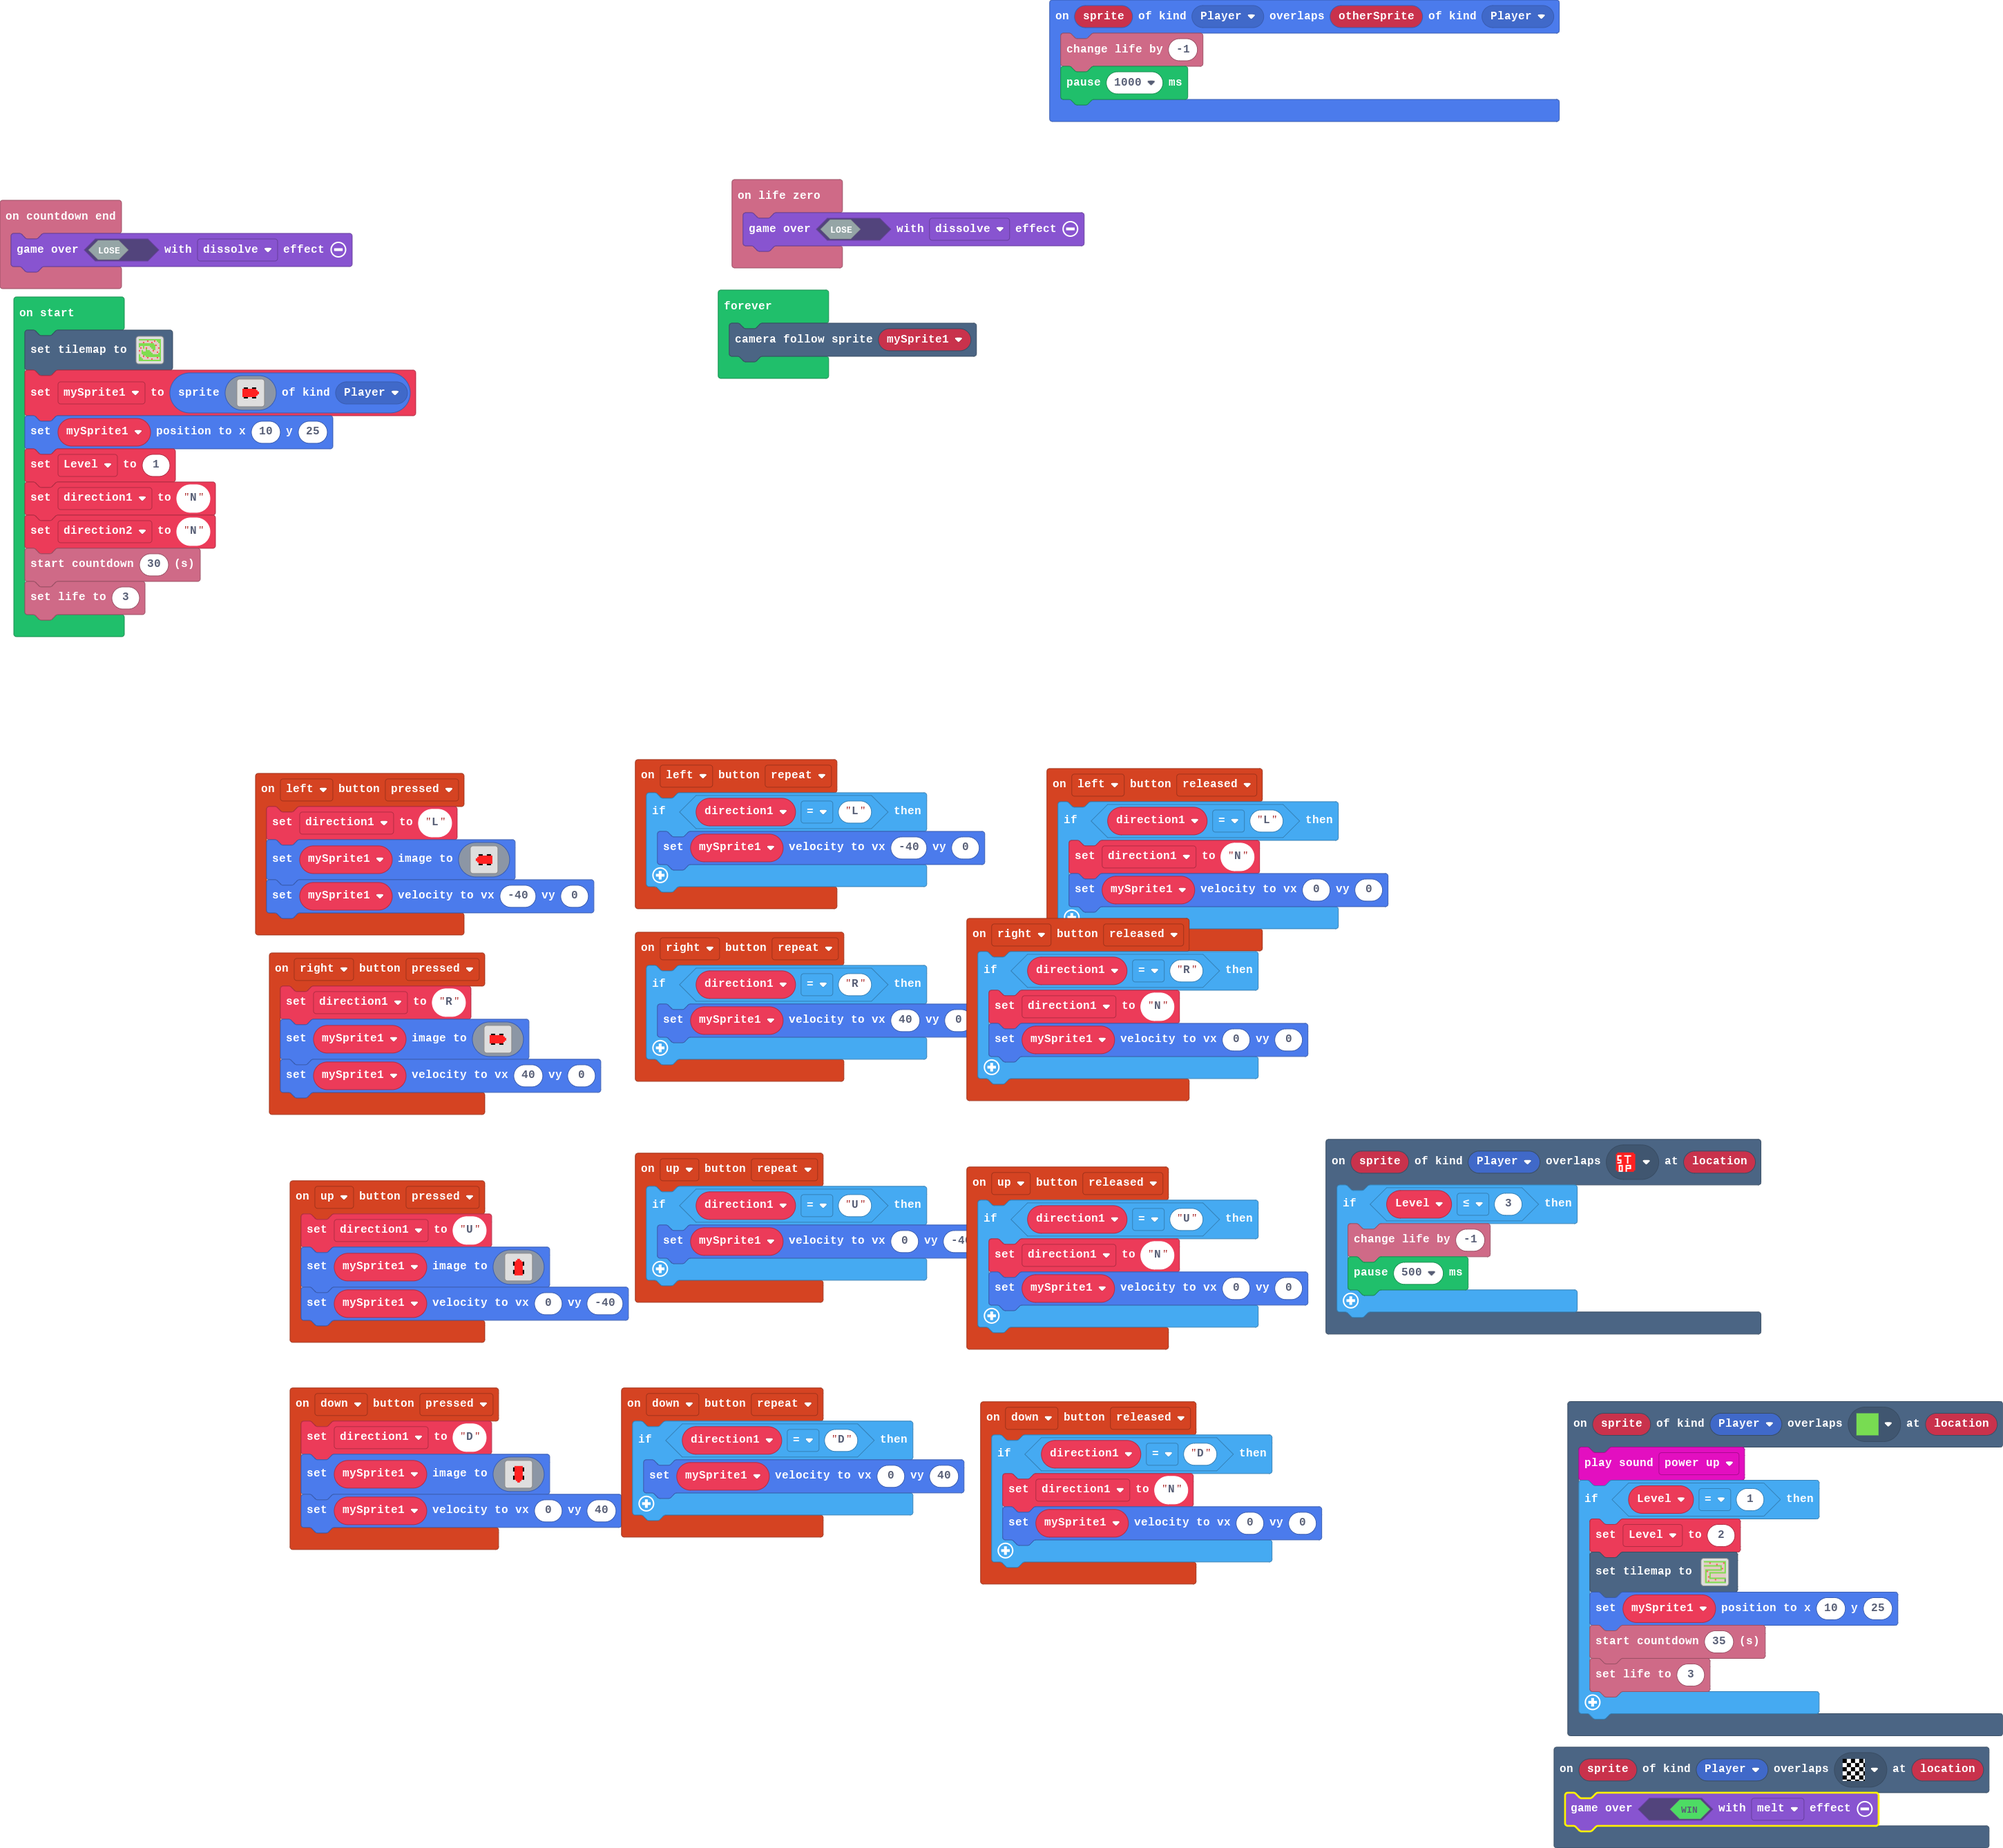
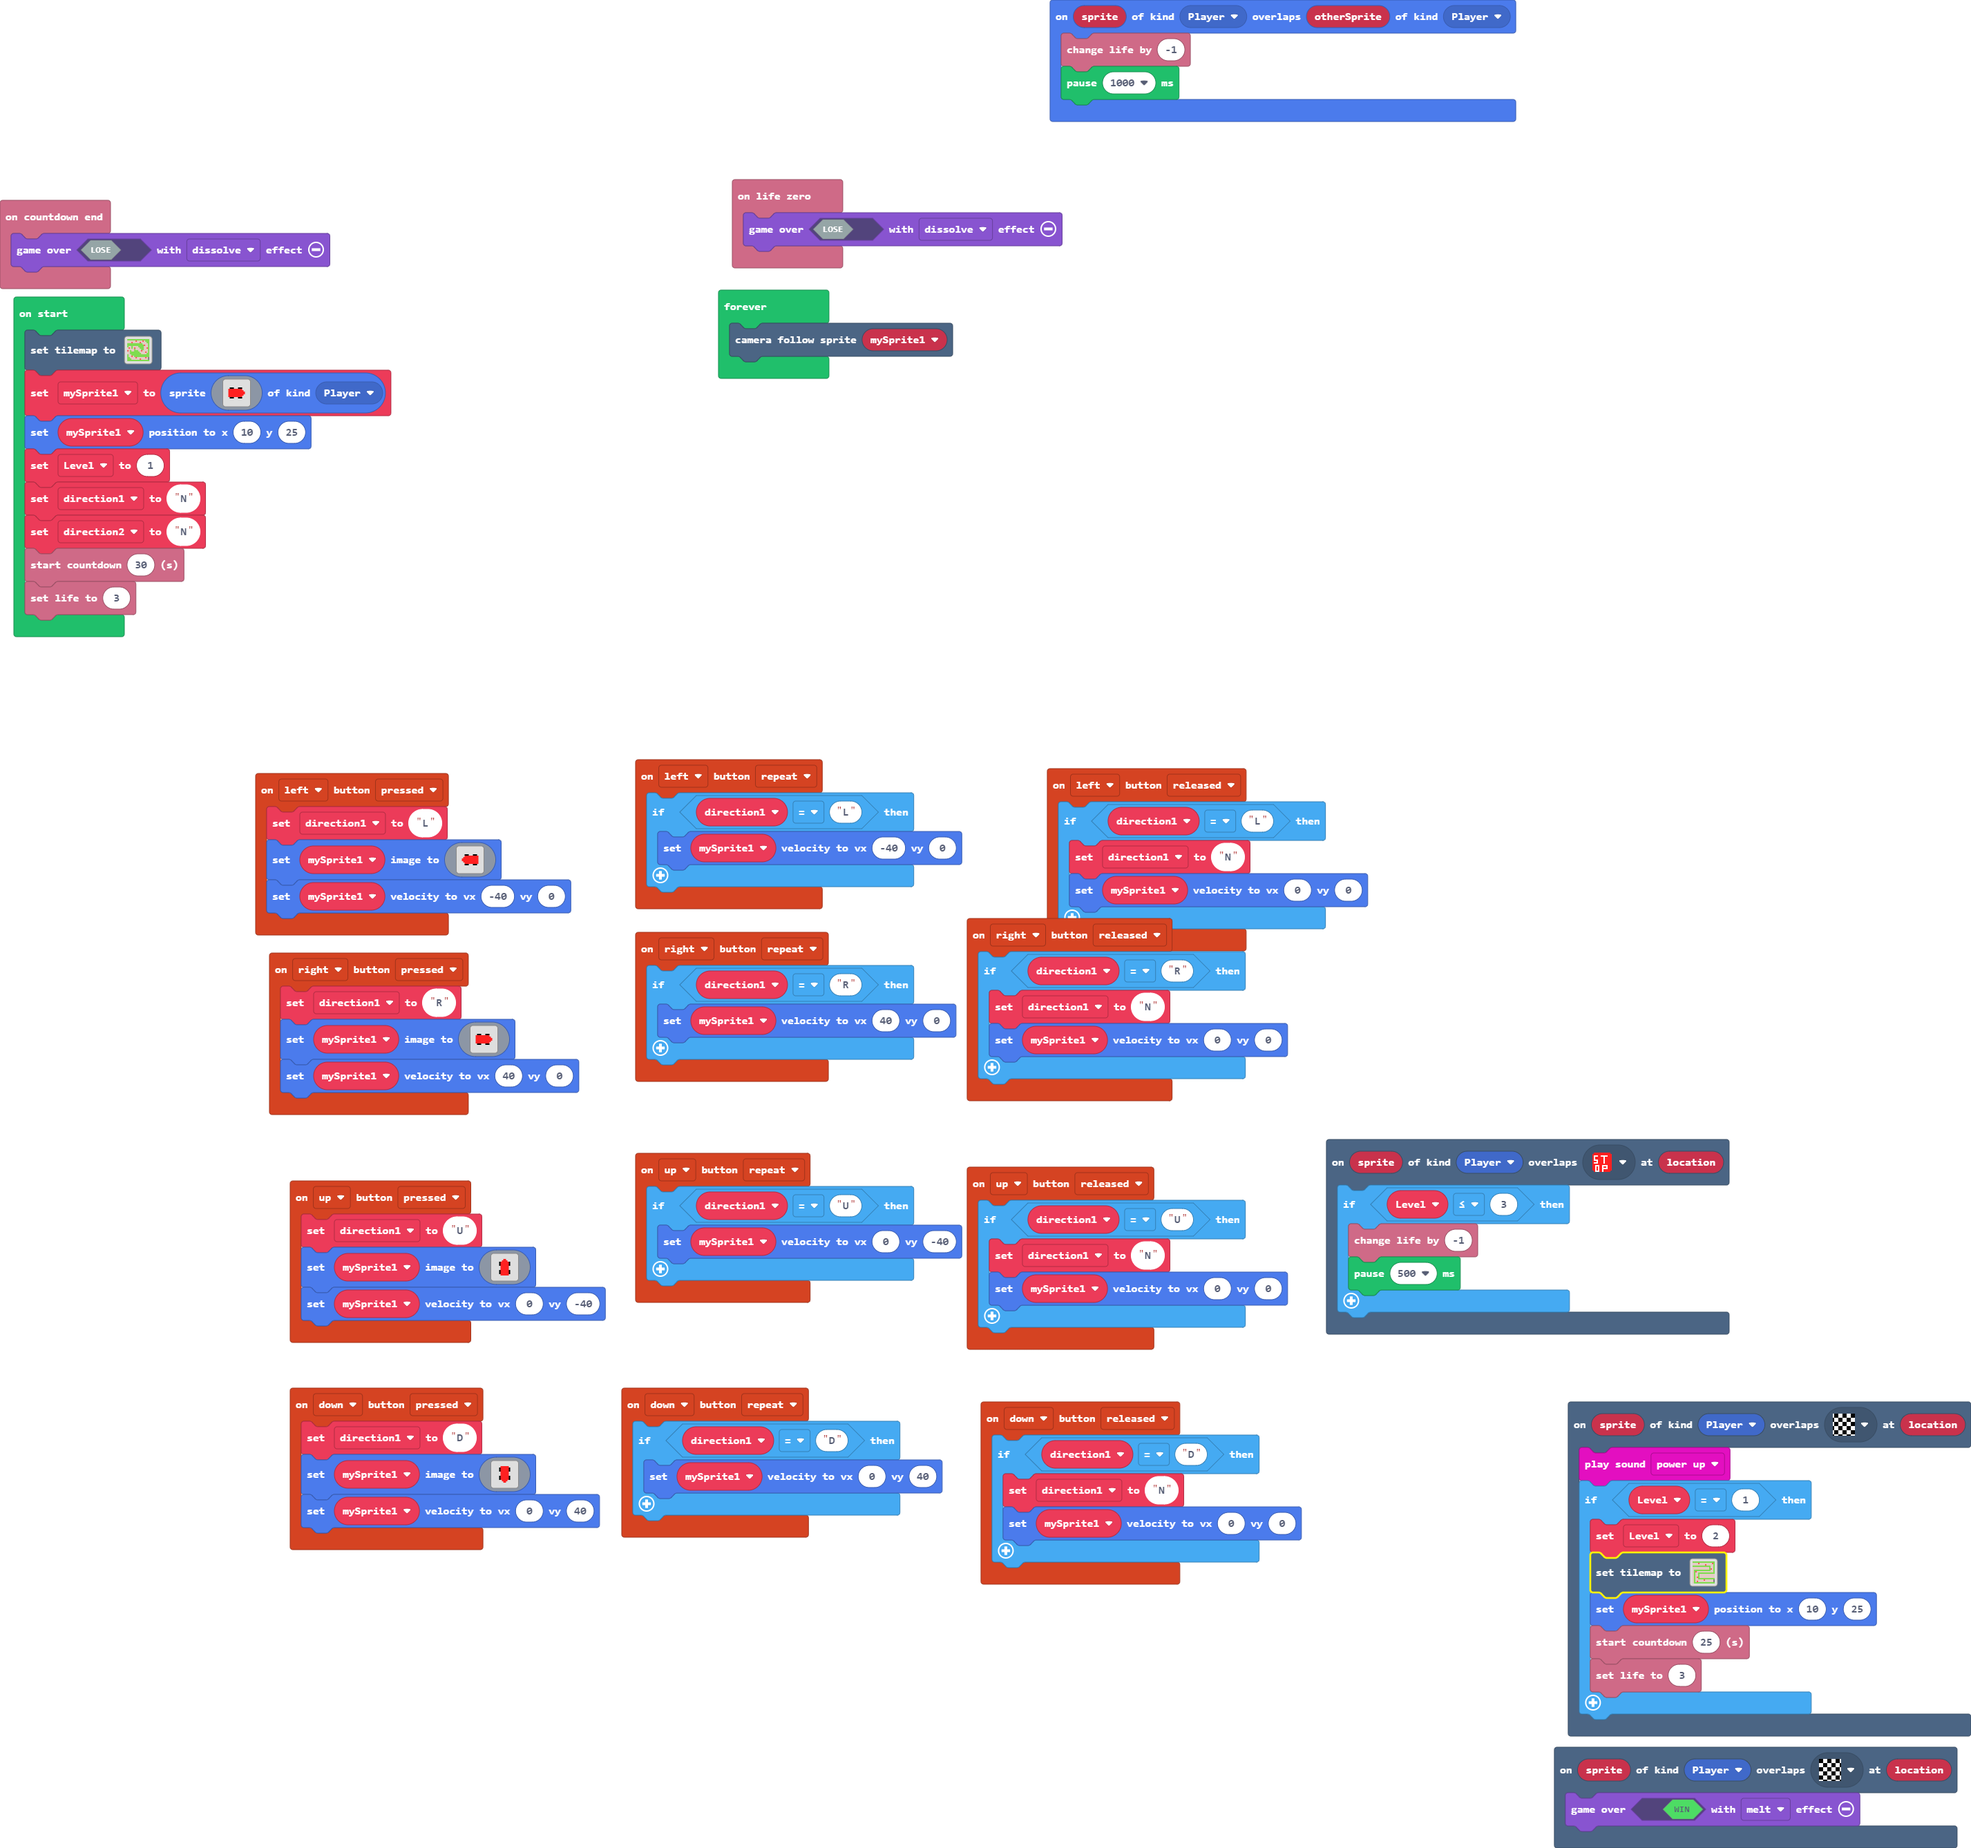
final

diff --git a/main.ts b/main.ts
@@ -1,30 +1,3 @@
-scene.onOverlapTile(SpriteKind.Player, myTiles.tile2, function (sprite, location) {
-    music.powerUp.play()
-    if (Level == 1) {
-        Level = 2
-        tiles.setTilemap(tiles.createTilemap(hex`1000100002020202020202020202020202020202010101010301010101010101010103020101010101010101010301010101010202020202020202020202020202010102010101010101010101010101020101020101010101010101010101010203010201020202020202020202020202010102010203010101010101010101010101020102010102020202020202020202020201020101020101010101010101010101010201010201010101010101010101010102010302010101010101010101010101020101020202020202020202020202010201010101010103010101010101040102010301010101010101010101010401020202020202020202020202020202`, img`
-            2 2 2 2 2 2 2 2 2 2 2 2 2 2 2 2 
-            . . . . . . . . . . . . . . . 2 
-            . . . . . . . . . . . . . . . 2 
-            2 2 2 2 2 2 2 2 2 2 2 2 2 . . 2 
-            . . . . . . . . . . . . 2 . . 2 
-            . . . . . . . . . . . . 2 . . 2 
-            . 2 2 2 2 2 2 2 2 2 2 2 2 . . 2 
-            . 2 . . . . . . . . . . . . . 2 
-            . 2 . . 2 2 2 . . . 2 2 2 2 2 2 
-            . 2 . . 2 . . . . . . . . . . . 
-            . 2 . . 2 . . . . . . . . . . . 
-            . 2 . . 2 . . . . . . . . . . . 
-            . 2 . . 2 2 2 2 2 2 2 2 2 2 2 . 
-            . 2 . . . . . . . . . 2 . . . . 
-            . 2 . . . . . . . . . 2 . . . . 
-            . 2 2 2 2 2 2 2 2 2 2 2 2 2 2 2 
-            `, [myTiles.transparency16,sprites.castle.tilePath5,sprites.castle.tileGrass1,myTiles.tile3,myTiles.tile1], TileScale.Sixteen))
-        mySprite1.setPosition(10, 25)
-        info.startCountdown(35)
-        info.setLife(3)
-    }
-})
 scene.onOverlapTile(SpriteKind.Player, myTiles.tile3, function (sprite, location) {
     if (Level <= 3) {
         info.changeLifeBy(-1)
@@ -132,6 +105,33 @@ controller.up.onEvent(ControllerButtonEvent.Released, function () {
     if (direction1 == "U") {
         direction1 = "N"
         mySprite1.setVelocity(0, 0)
+    }
+})
+scene.onOverlapTile(SpriteKind.Player, myTiles.tile6, function (sprite, location) {
+    music.powerUp.play()
+    if (Level == 1) {
+        Level = 2
+        tiles.setTilemap(tiles.createTilemap(hex`1000100002020202020202020202020202020202010101010301010101010101010103020101010101010101010301010101010202020202020202020202020202010102010101010101010101010101020101020101010101010101010101010203010201020202020202020202020202010102010203010101010101010101010101020102010102020202020202020202020201020101020101010101010101010101010201010201010101010101010101010102010302010101010101010101010101020101020202020202020202020202010201010101010103010101010101040102010301010101010101010101010401020202020202020202020202020202`, img`
+            2 2 2 2 2 2 2 2 2 2 2 2 2 2 2 2 
+            . . . . . . . . . . . . . . . 2 
+            . . . . . . . . . . . . . . . 2 
+            2 2 2 2 2 2 2 2 2 2 2 2 2 . . 2 
+            . . . . . . . . . . . . 2 . . 2 
+            . . . . . . . . . . . . 2 . . 2 
+            . 2 2 2 2 2 2 2 2 2 2 2 2 . . 2 
+            . 2 . . . . . . . . . . . . . 2 
+            . 2 . . 2 2 2 . . . 2 2 2 2 2 2 
+            . 2 . . 2 . . . . . . . . . . . 
+            . 2 . . 2 . . . . . . . . . . . 
+            . 2 . . 2 . . . . . . . . . . . 
+            . 2 . . 2 2 2 2 2 2 2 2 2 2 2 . 
+            . 2 . . . . . . . . . . . . 2 . 
+            . 2 . . . . . . . . . . . . 2 . 
+            . 2 2 2 2 2 2 2 2 2 2 2 2 2 2 2 
+            `, [myTiles.transparency16,sprites.castle.tilePath5,sprites.castle.tileGrass1,myTiles.tile3,myTiles.tile1], TileScale.Sixteen))
+        mySprite1.setPosition(10, 25)
+        info.startCountdown(25)
+        info.setLife(3)
     }
 })
 controller.down.onEvent(ControllerButtonEvent.Repeated, function () {

diff --git a/tilemap.g.ts b/tilemap.g.ts
@@ -12,6 +12,10 @@ namespace myTiles {
     export const tile4 = image.ofBuffer(hex``);
     //% fixedInstance jres blockIdentity=images._tile
     export const tile5 = image.ofBuffer(hex``);
+    //% fixedInstance jres blockIdentity=images._tile
+    export const tile6 = image.ofBuffer(hex``);
+    //% fixedInstance jres blockIdentity=images._tile
+    export const tile7 = image.ofBuffer(hex``);
 
     helpers.registerTilemapFactory(function(name: string) {
         switch(helpers.stringTrim(name)) {
@@ -50,7 +54,7 @@ namespace myTiles {
 2 2 . . . . . . . . . . . . . . 
 2 . 2 . . . . . . . . . . . . . 
 . . . 2 2 2 2 2 2 2 2 2 2 2 2 2 
-`, [myTiles.transparency16,sprites.castle.tilePath5,sprites.castle.tileGrass1,myTiles.tile3,myTiles.tile2], TileScale.Sixteen)
+`, [myTiles.transparency16,sprites.castle.tilePath5,sprites.castle.tileGrass1,myTiles.tile3,myTiles.tile6], TileScale.Sixteen)
         }
         return null;
     })
